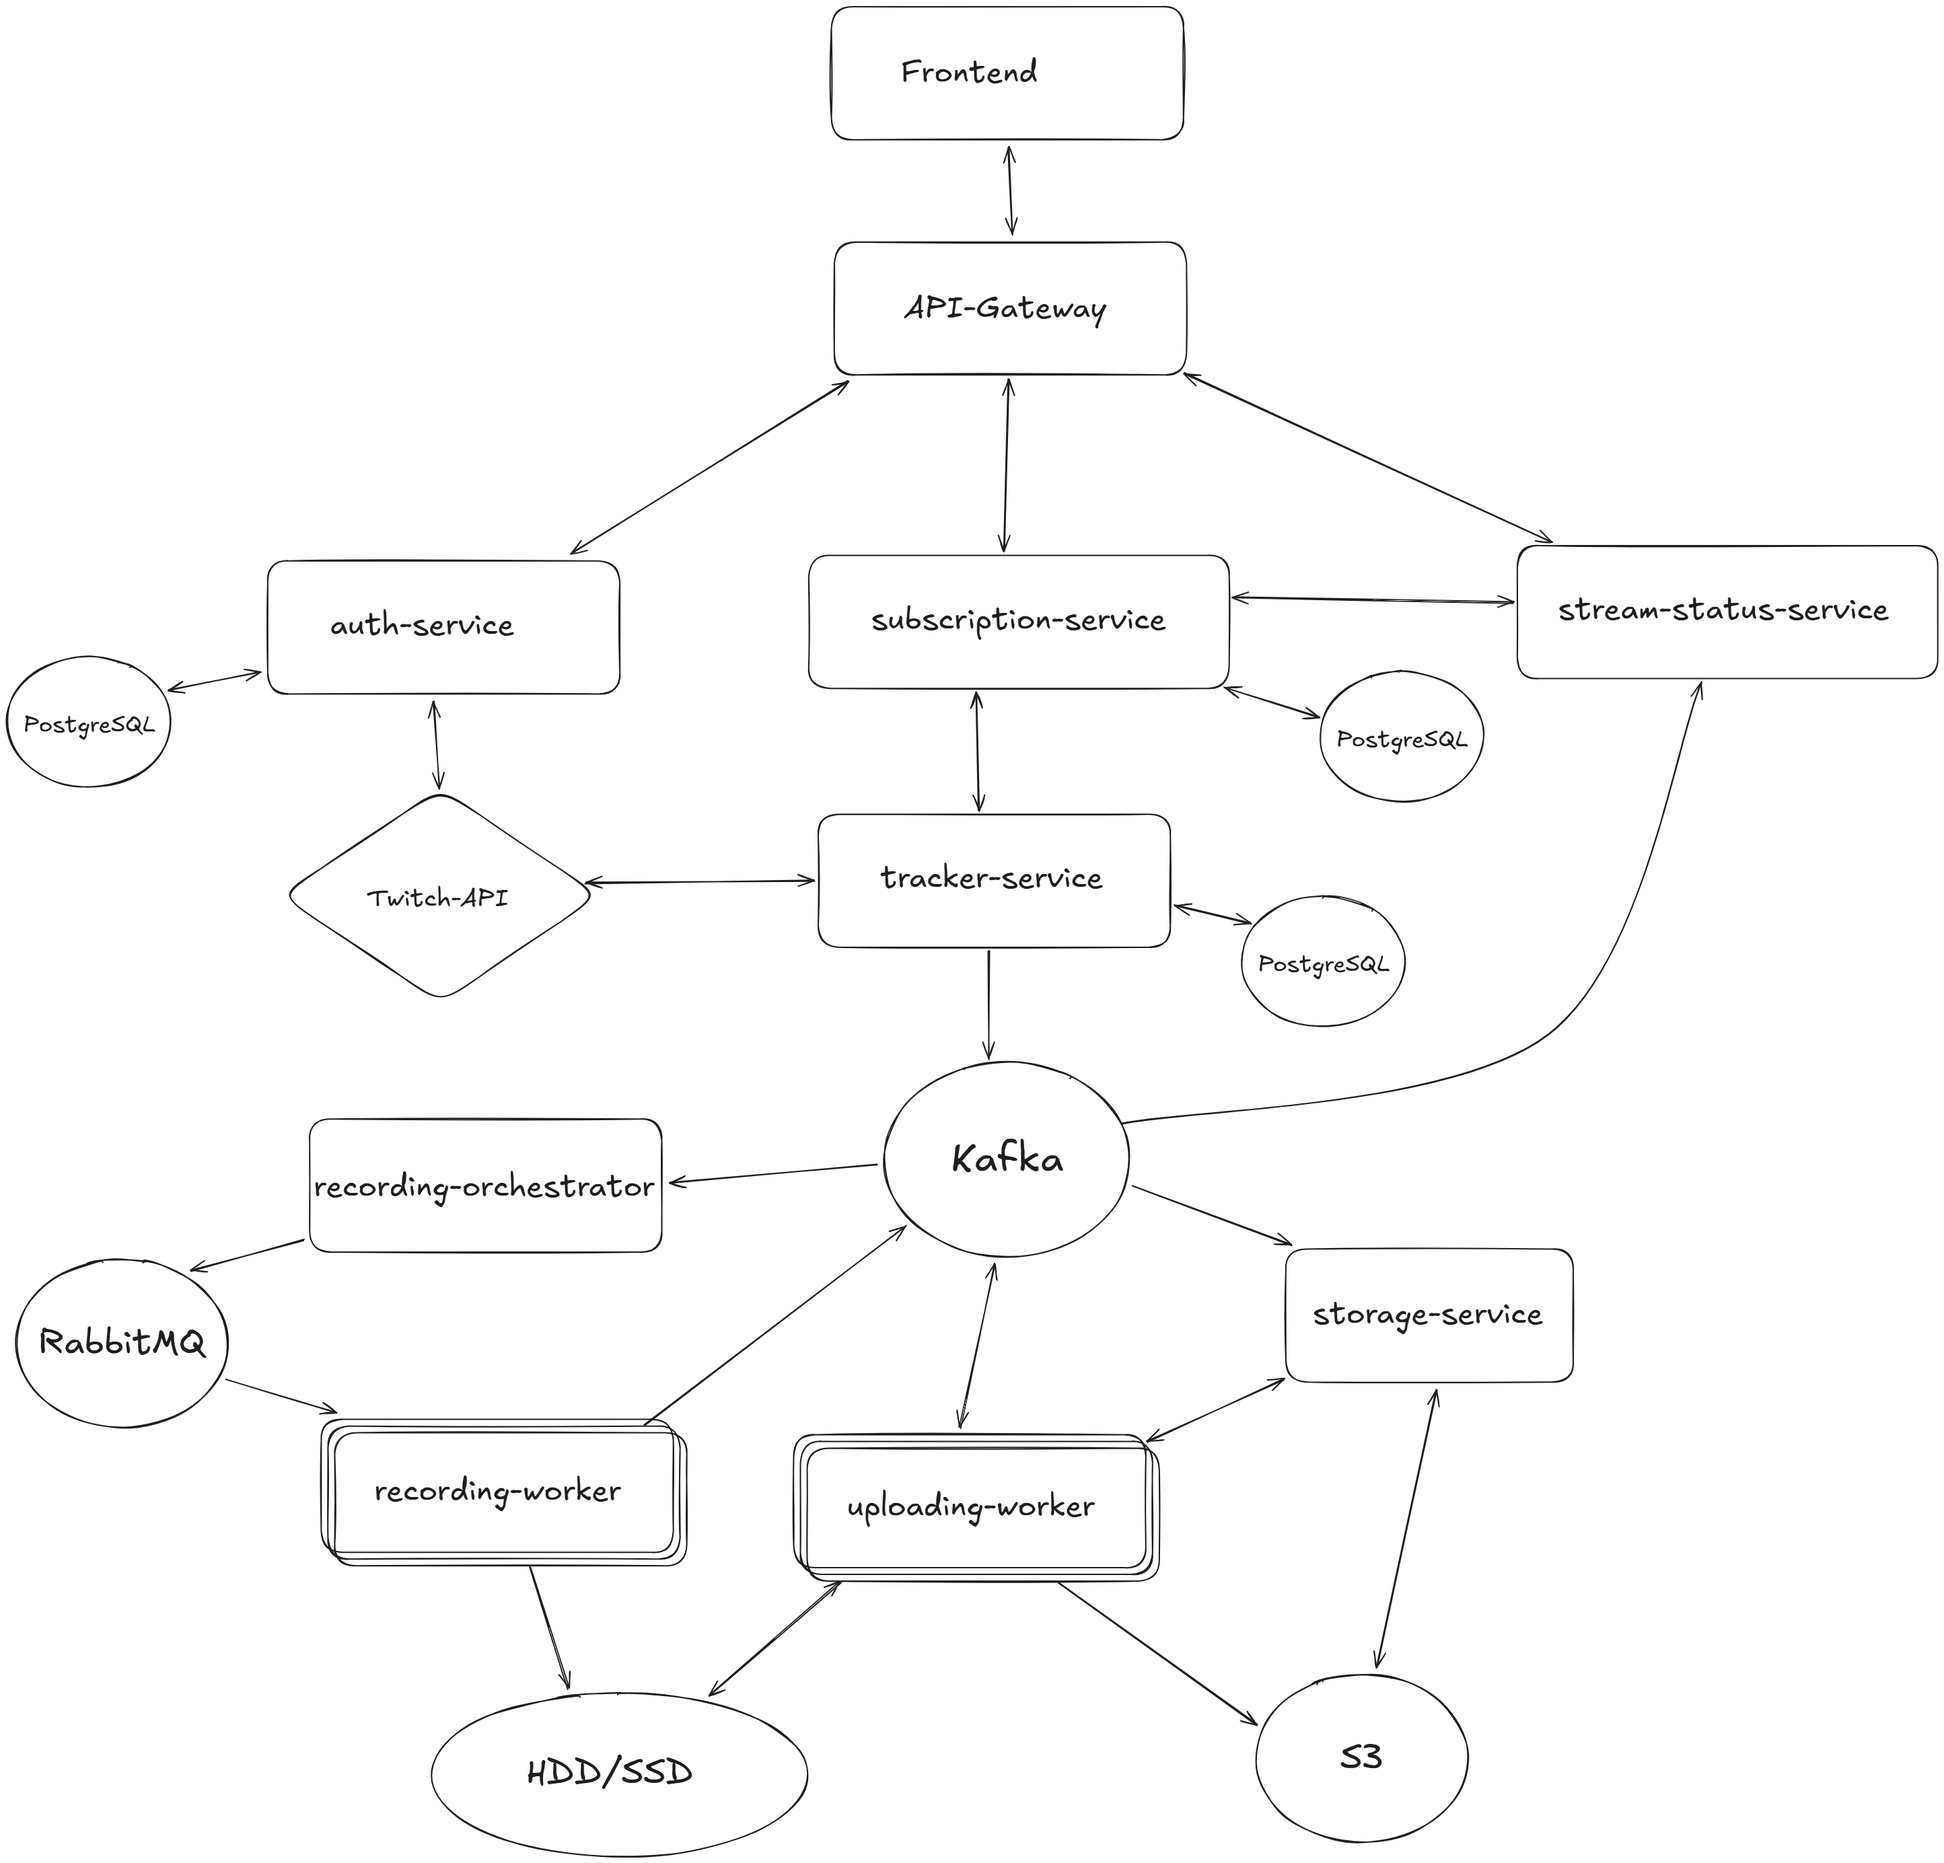
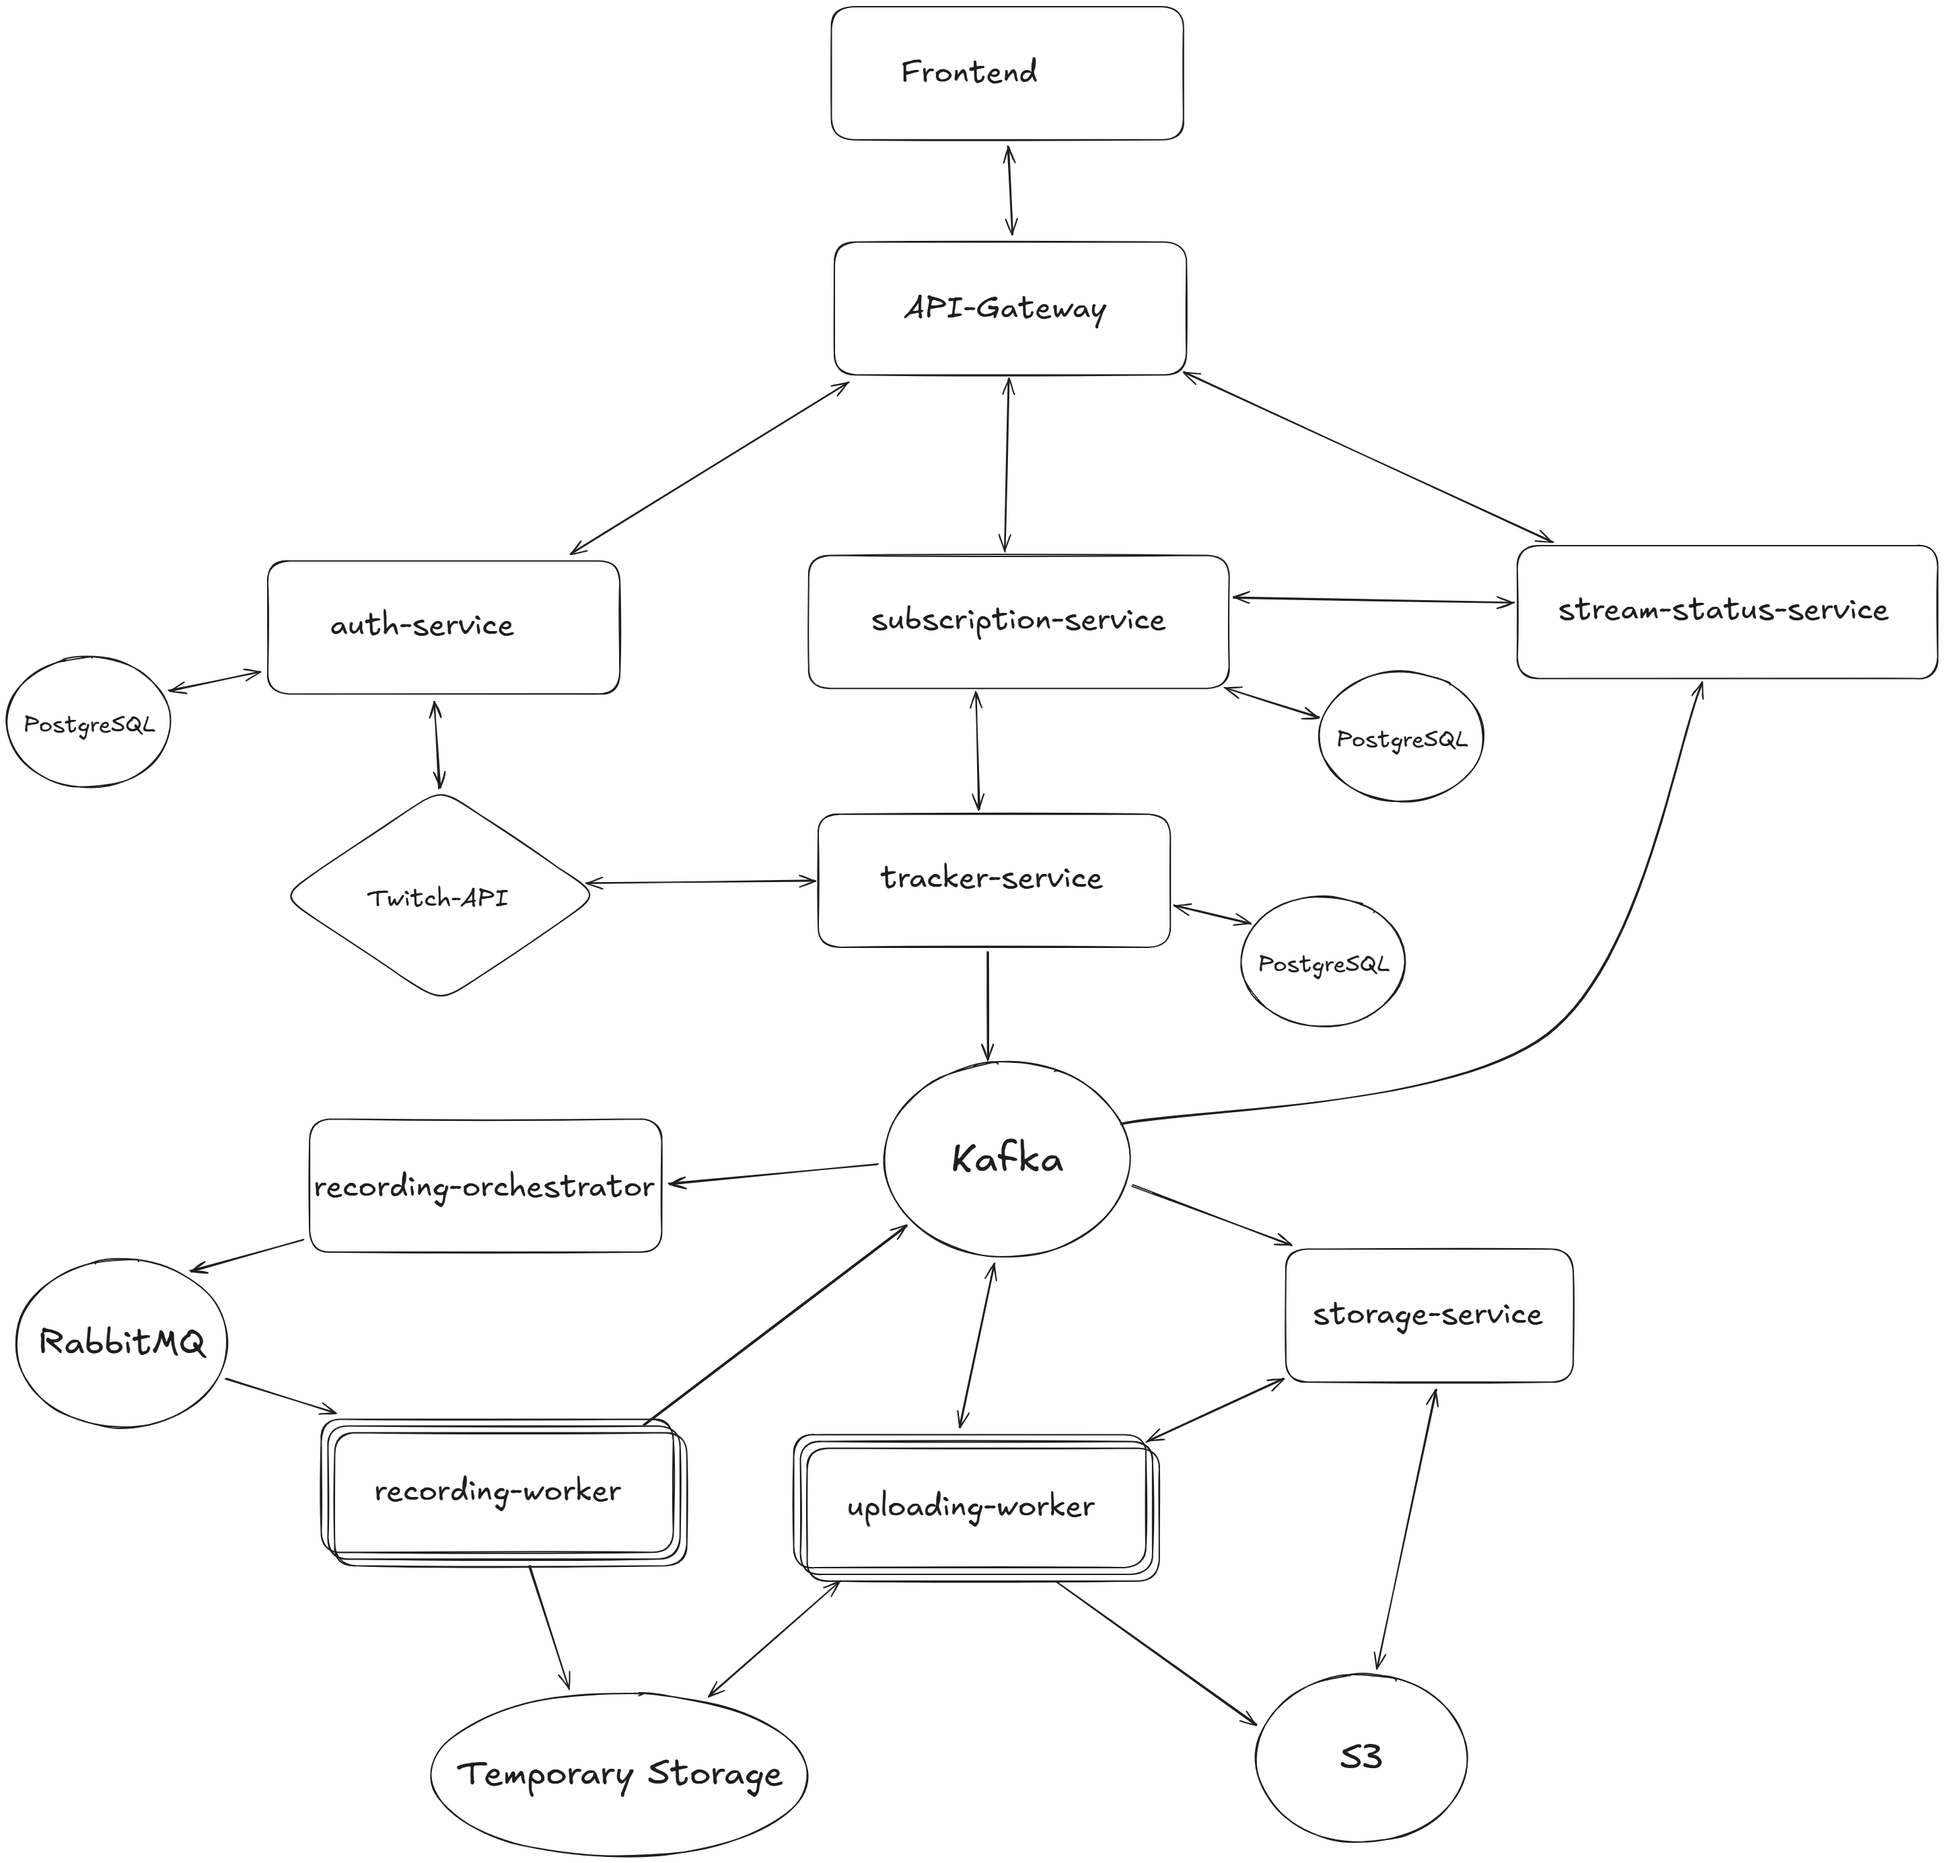
refactor: remove "./common/recordings" and switch to dedicated Docker volume

diff --git a/README.md b/README.md
@@ -35,6 +35,8 @@ background processing (recording, uploading) and real-time stream status deliver
 
 - **storage-service** issues pre-signed upload URLs and finalizes multipart uploads in S3.
 
+- **temporary storage** is used only as a buffering layer before uploading to object storage.
+
 
 # How to run
 
